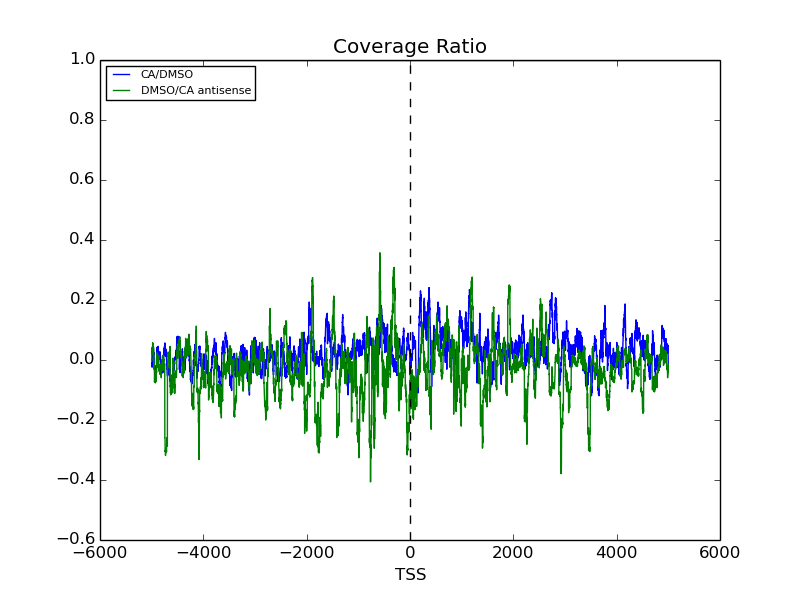
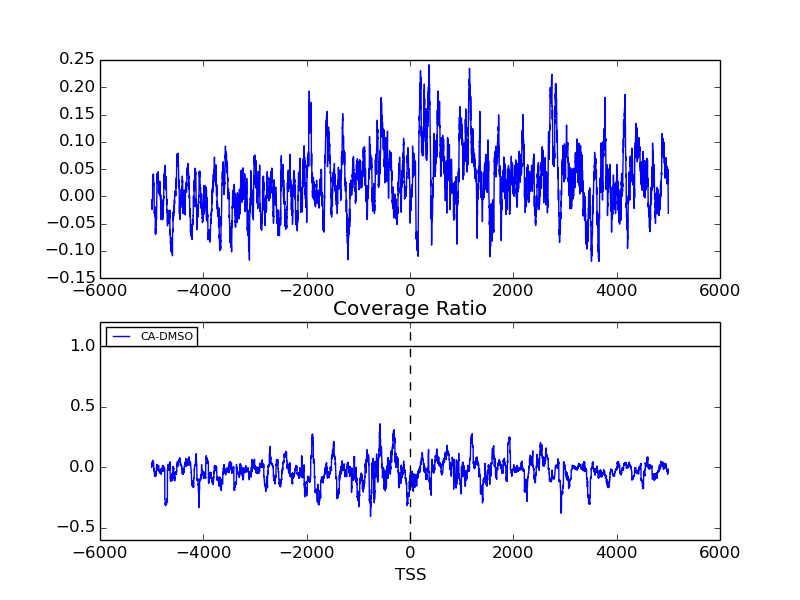
updates

diff --git a/src/metagene_TSS.py b/src/metagene_TSS.py
@@ -12,7 +12,7 @@ file3 = '/scratch/Users/joru1876/GROAnalysis/files/Master.bed'
 outdir = '/scratch/Users/joru1876/GROAnalysis/files'
 figout = '/scratch/Users/joru1876/GROAnalysis/figures'
 coveragecut = 2500
-window = 5000
+window = 1000
 
 def run(file1,file2,file3):
     genelist = list()
@@ -133,27 +133,31 @@ def run(file1,file2,file3):
         
             
     F = plt.figure()
-    x1 = np.arange(-1000,1000,1)
-    plt.plot(x1,DMSOarray[window-1000:window+1000],color='b')
-    plt.plot(x1,CAarray[window-1000:window+1000],color='g')
-    plt.plot(x1,DMSOantiarray[window-1000:window+1000],color='r')
-    plt.plot(x1,CAantiarray[window-1000:window+1000],color='y')
+    x1 = np.arange(-window,window,1)
+    plt.plot(x1,DMSOarray,color='b')
+    plt.plot(x1,CAarray,color='g')
+    plt.plot(x1,DMSOantiarray,color='r')
+    plt.plot(x1,CAantiarray,color='y')
     plt.xlabel('TSS')
     plt.axvline(x=0.,color='k',ls='dashed')
     plt.legend(['DMSO', 'CA', 'DMSO antisense','CA antisense'], fontsize=8, loc='lower right')
     plt.savefig(figout + '/metagene_TSS.png')
     
     F1 = plt.figure()
-    ax1 = F1.add_subplot(2,1,1)
     x2 = np.arange(-window,window,1)
+    ax1 = F1.add_subplot(2,1,1)
     ax1.plot(x2,CAarray-DMSOarray)
+    ax1.title('CA-DMSO')
     ax2 = F1.add_subplot(2,1,2)
     ax2.plot(x2,DMSOantiarray-CAantiarray)
-    plt.legend(['CA-DMSO','DMSO-CA antisense'], loc='upper left',fontsize=8)
+    ax2.title('DMSO-CA antisense')
+    #plt.legend(['CA-DMSO','DMSO-CA antisense'], loc='upper left',fontsize=8)
     plt.xlabel('TSS')
-    plt.axvline(x=0.,color='k',ls='dashed')
-    plt.axhline(y=1.,color='k',ls='solid')
-    plt.title("Coverage Ratio")
+    ax1.axvline(x=0.,color='k',ls='dashed')
+    ax1.axhline(y=0.,color='k',ls='solid')
+    ax2.axvline(x=0.,color='k',ls='dashed')
+    ax2.axhline(y=0.,color='k',ls='solid')
+    #plt.title("Coverage Ratio")
     plt.savefig(figout + '/metagene_TSS_ratio.png')
     
     
